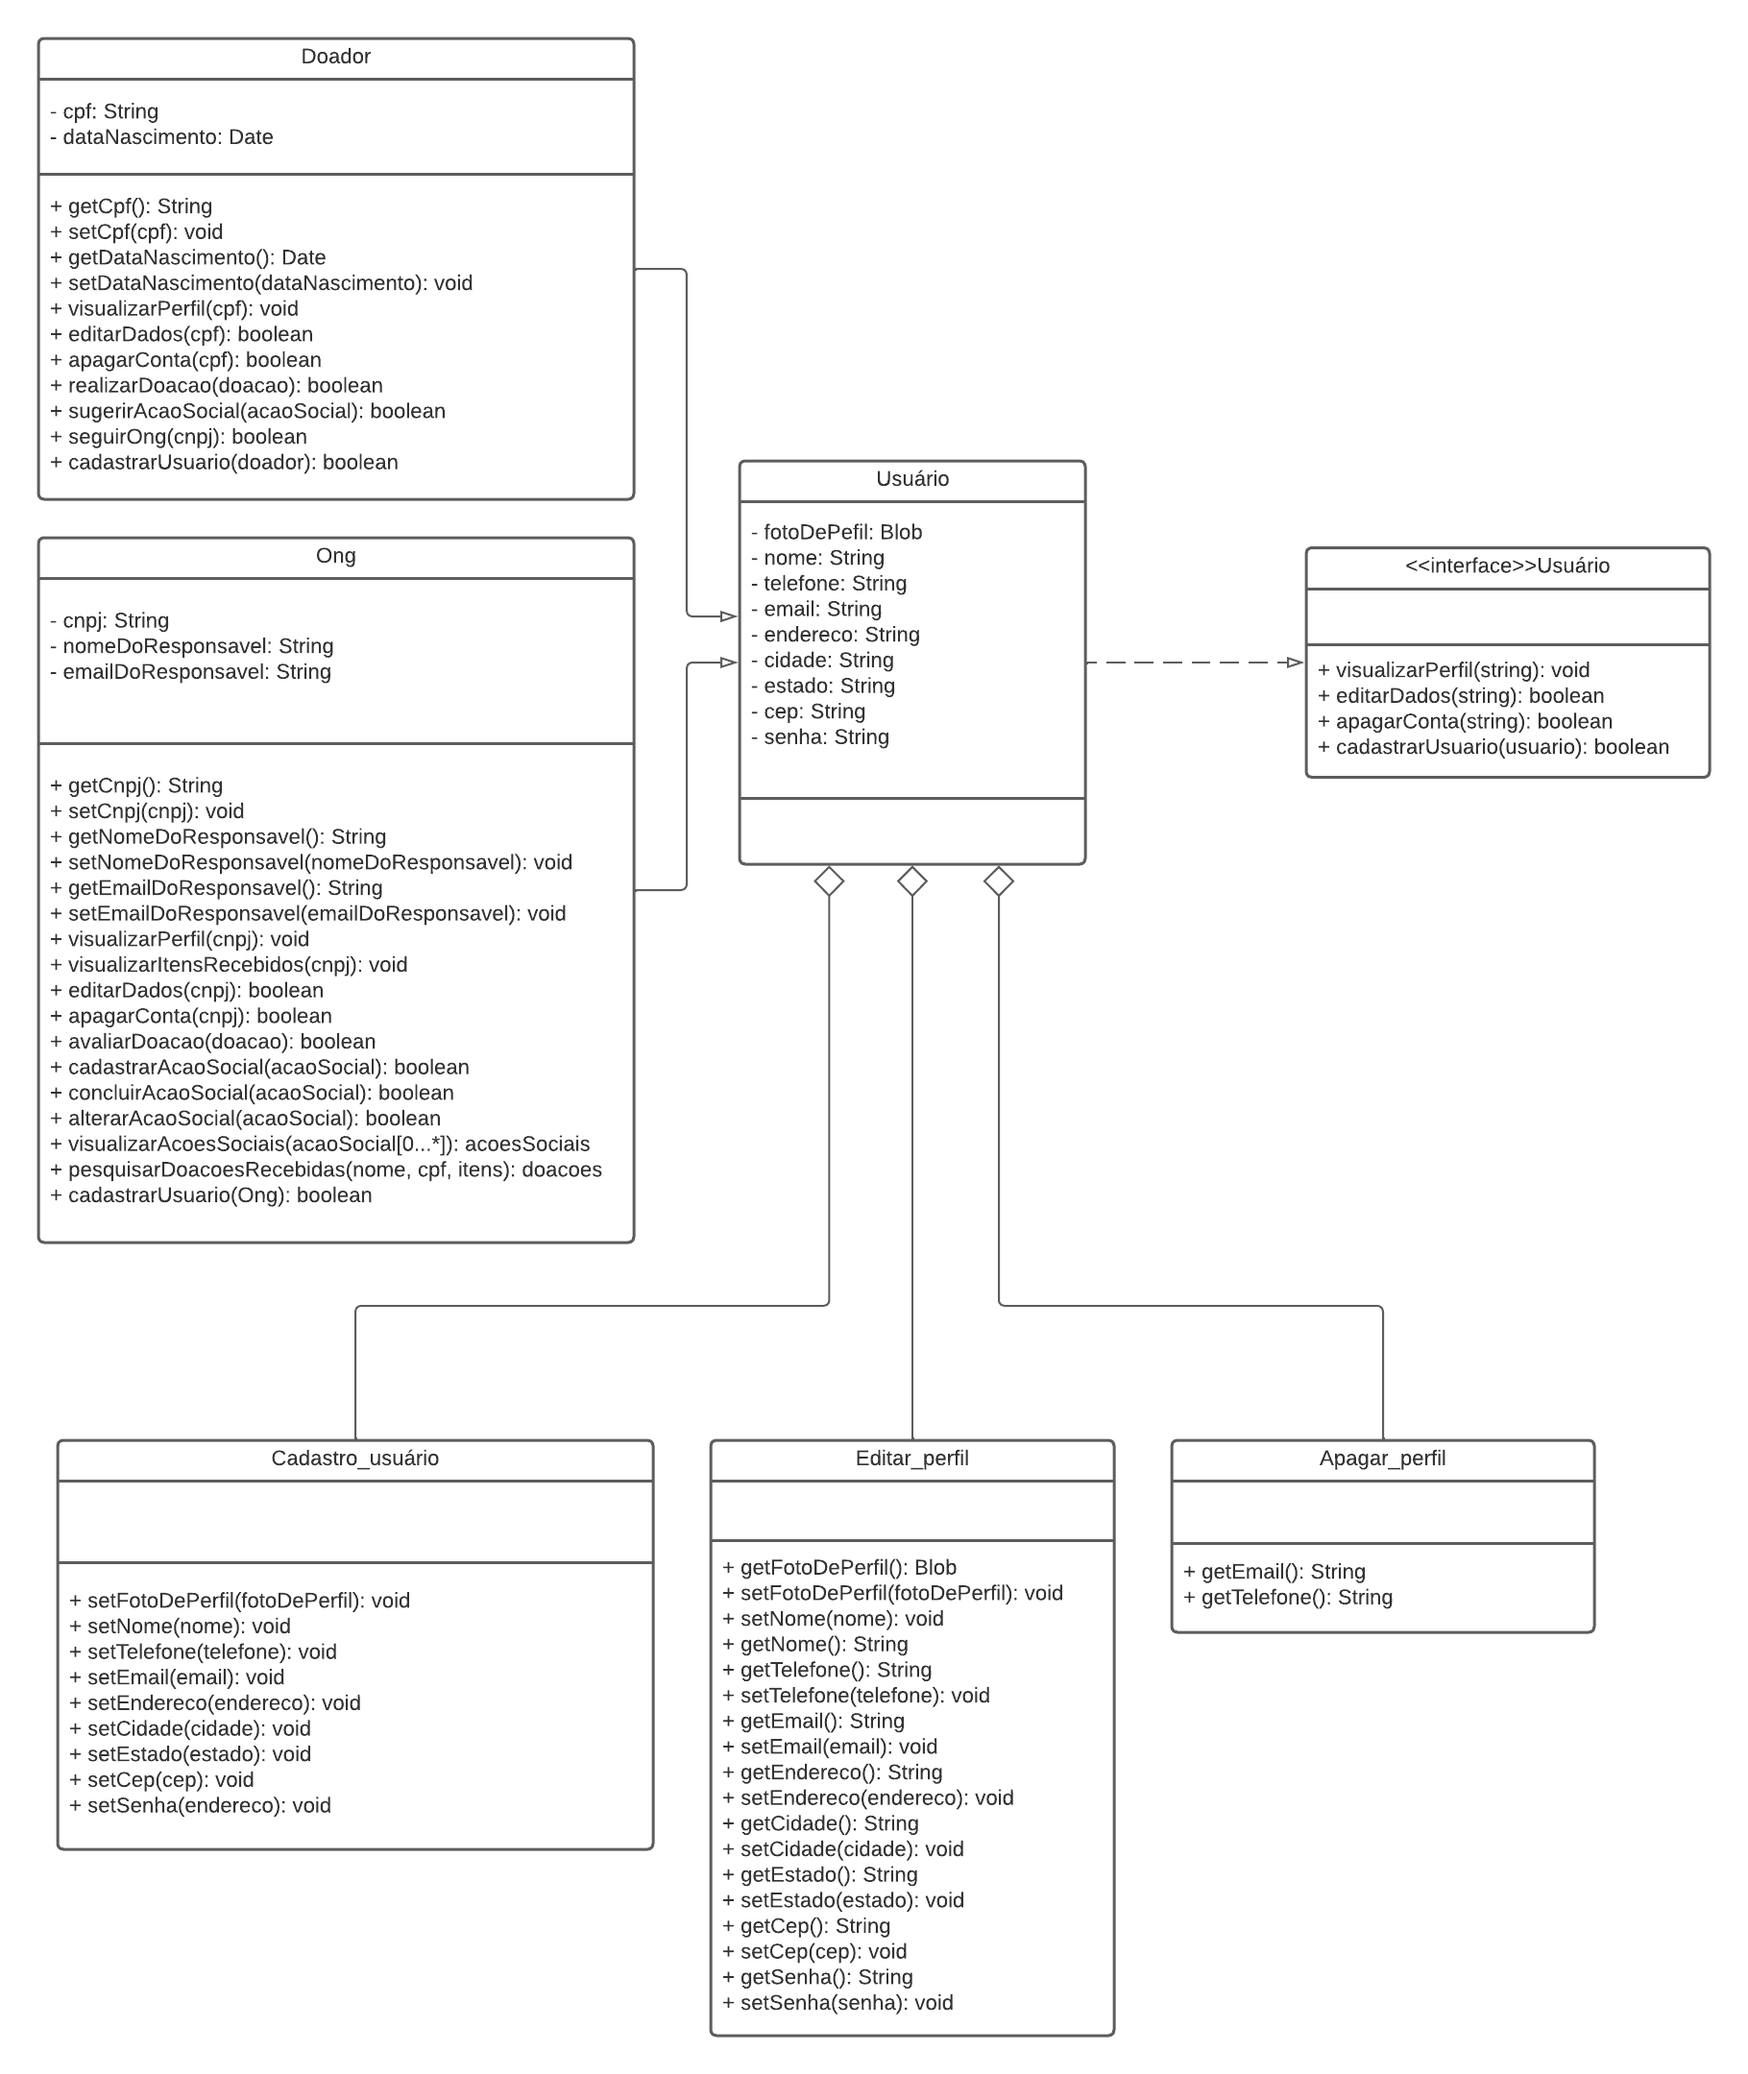
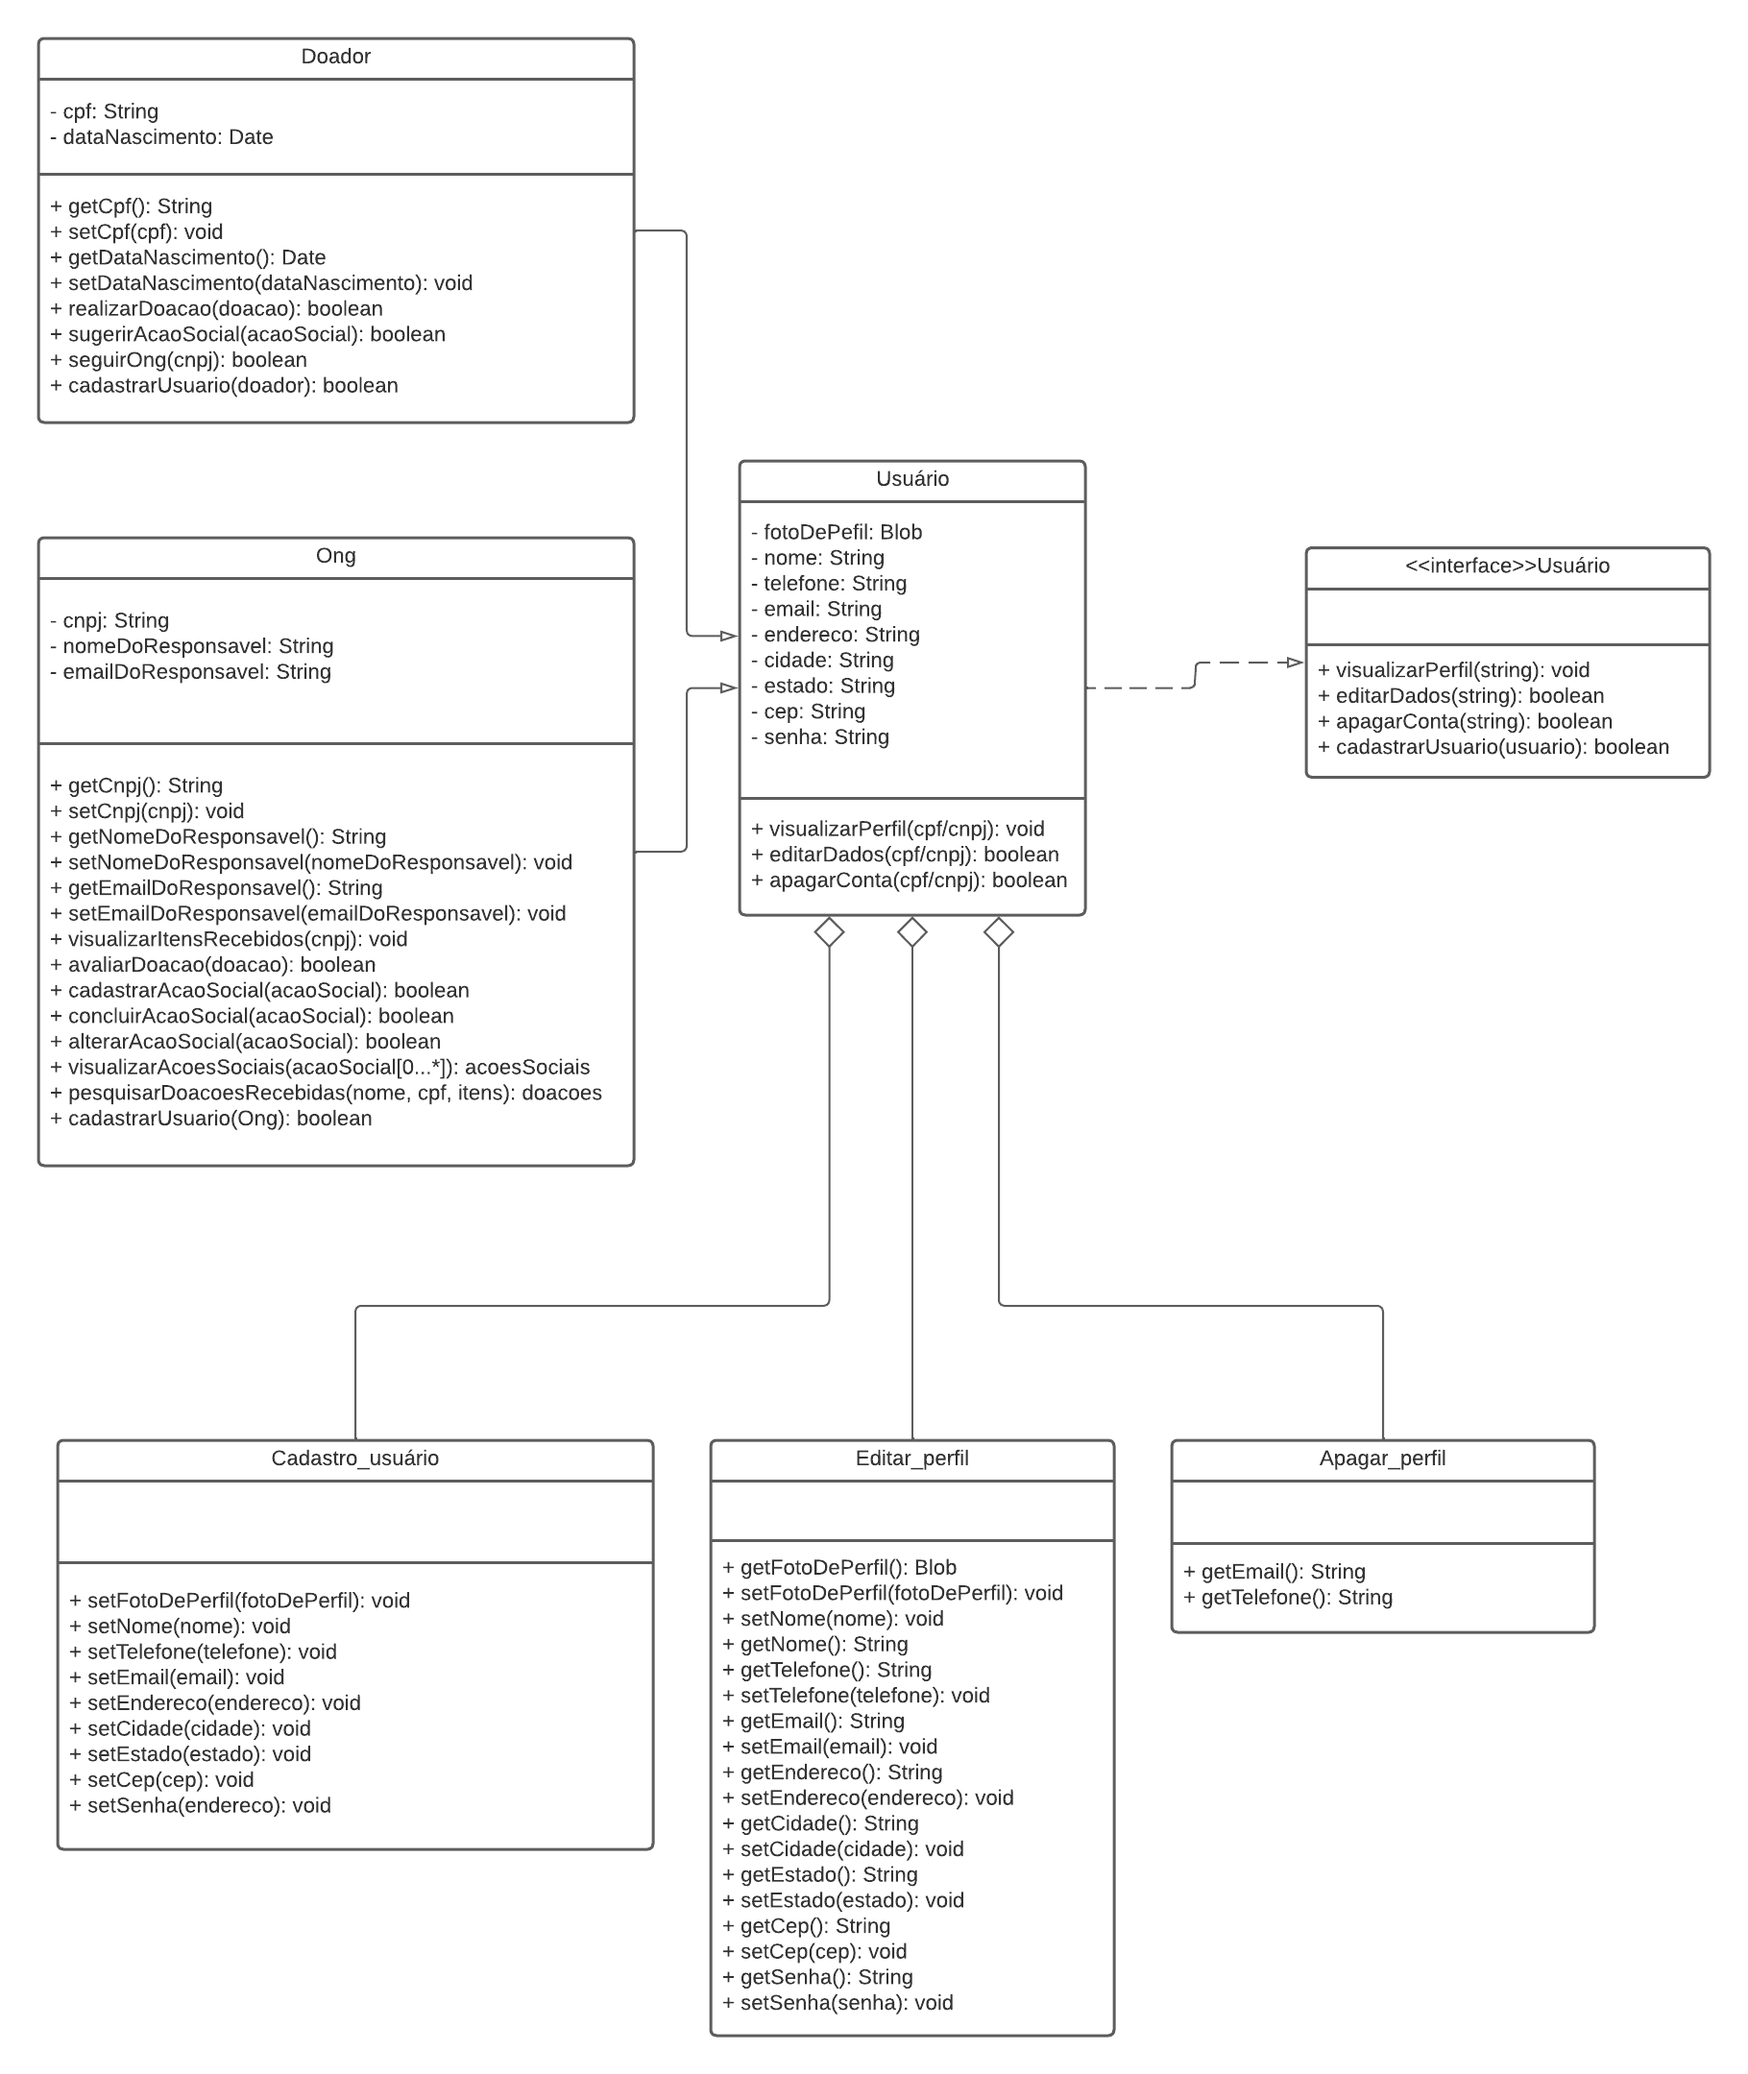
:repeat: (#0) alterações no grasp polimorfismo

Changed region(s): [[0.0308, 0.4343, 0.3692, 0.5894], [0.0308, 0.1241, 0.2462, 0.2481], [0.4308, 0.3722, 0.6154, 0.4653]]

diff --git a/docs/PadroesDeProjeto/3.1.GRASPs.md b/docs/PadroesDeProjeto/3.1.GRASPs.md
@@ -137,7 +137,7 @@ _Imagem 5: Estruturas de pastas do projeto._
 
 ### 3.1.1.6. GRASP de Polimorfismo
 
-Também pode-se utilizar o conceito de Polimorfismo de orientação a objetos para melhorar nossas classes. "Quando alternativas ou comportamentos relacionados variam com o tipo (classe), atribuía as responsabilidades aos tipos usando operações polimórficas." [[BACALÁ]](#ref1) 
+Também pode-se utilizar o conceito de Polimorfismo de orientação a objetos para melhorar nossas classes. "Quando alternativas ou comportamentos relacionados variam com o tipo (classe), atribua as responsabilidades aos tipos usando operações polimórficas." [[BACALÁ]](#ref1) 
 
 #### **Utilização no projeto**: 
 
@@ -148,7 +148,7 @@ _Imagem 6: Recorte do Diagrama de Classes do projeto._
 
 Posto isto, é possível aplicar os padrões de **Alta Coesão** e **Baixo Acoplamento** nesse cenário. Ou seja, pode-se dividir ela em uma classe *Usuário* que terá os atributos necessários para o usuário. Depois criar três classes que herdarão os atributos da classe *Usuário* que serão específicas para cadastrar, editar ou apagar o perfil. 
 
-Ademais, são criadas classes que herdam atributos da classe *Usuário*, dessa forma, aplicando o padrão de **Polimorfismo**. 
+Ademais, são criadas classes que herdam atributos e métodos da classe *Usuário*, dessa forma, aplicando o padrão de **Polimorfismo**. 
 
 Essas mudanças resultam no diagrama representado abaixo:
 
